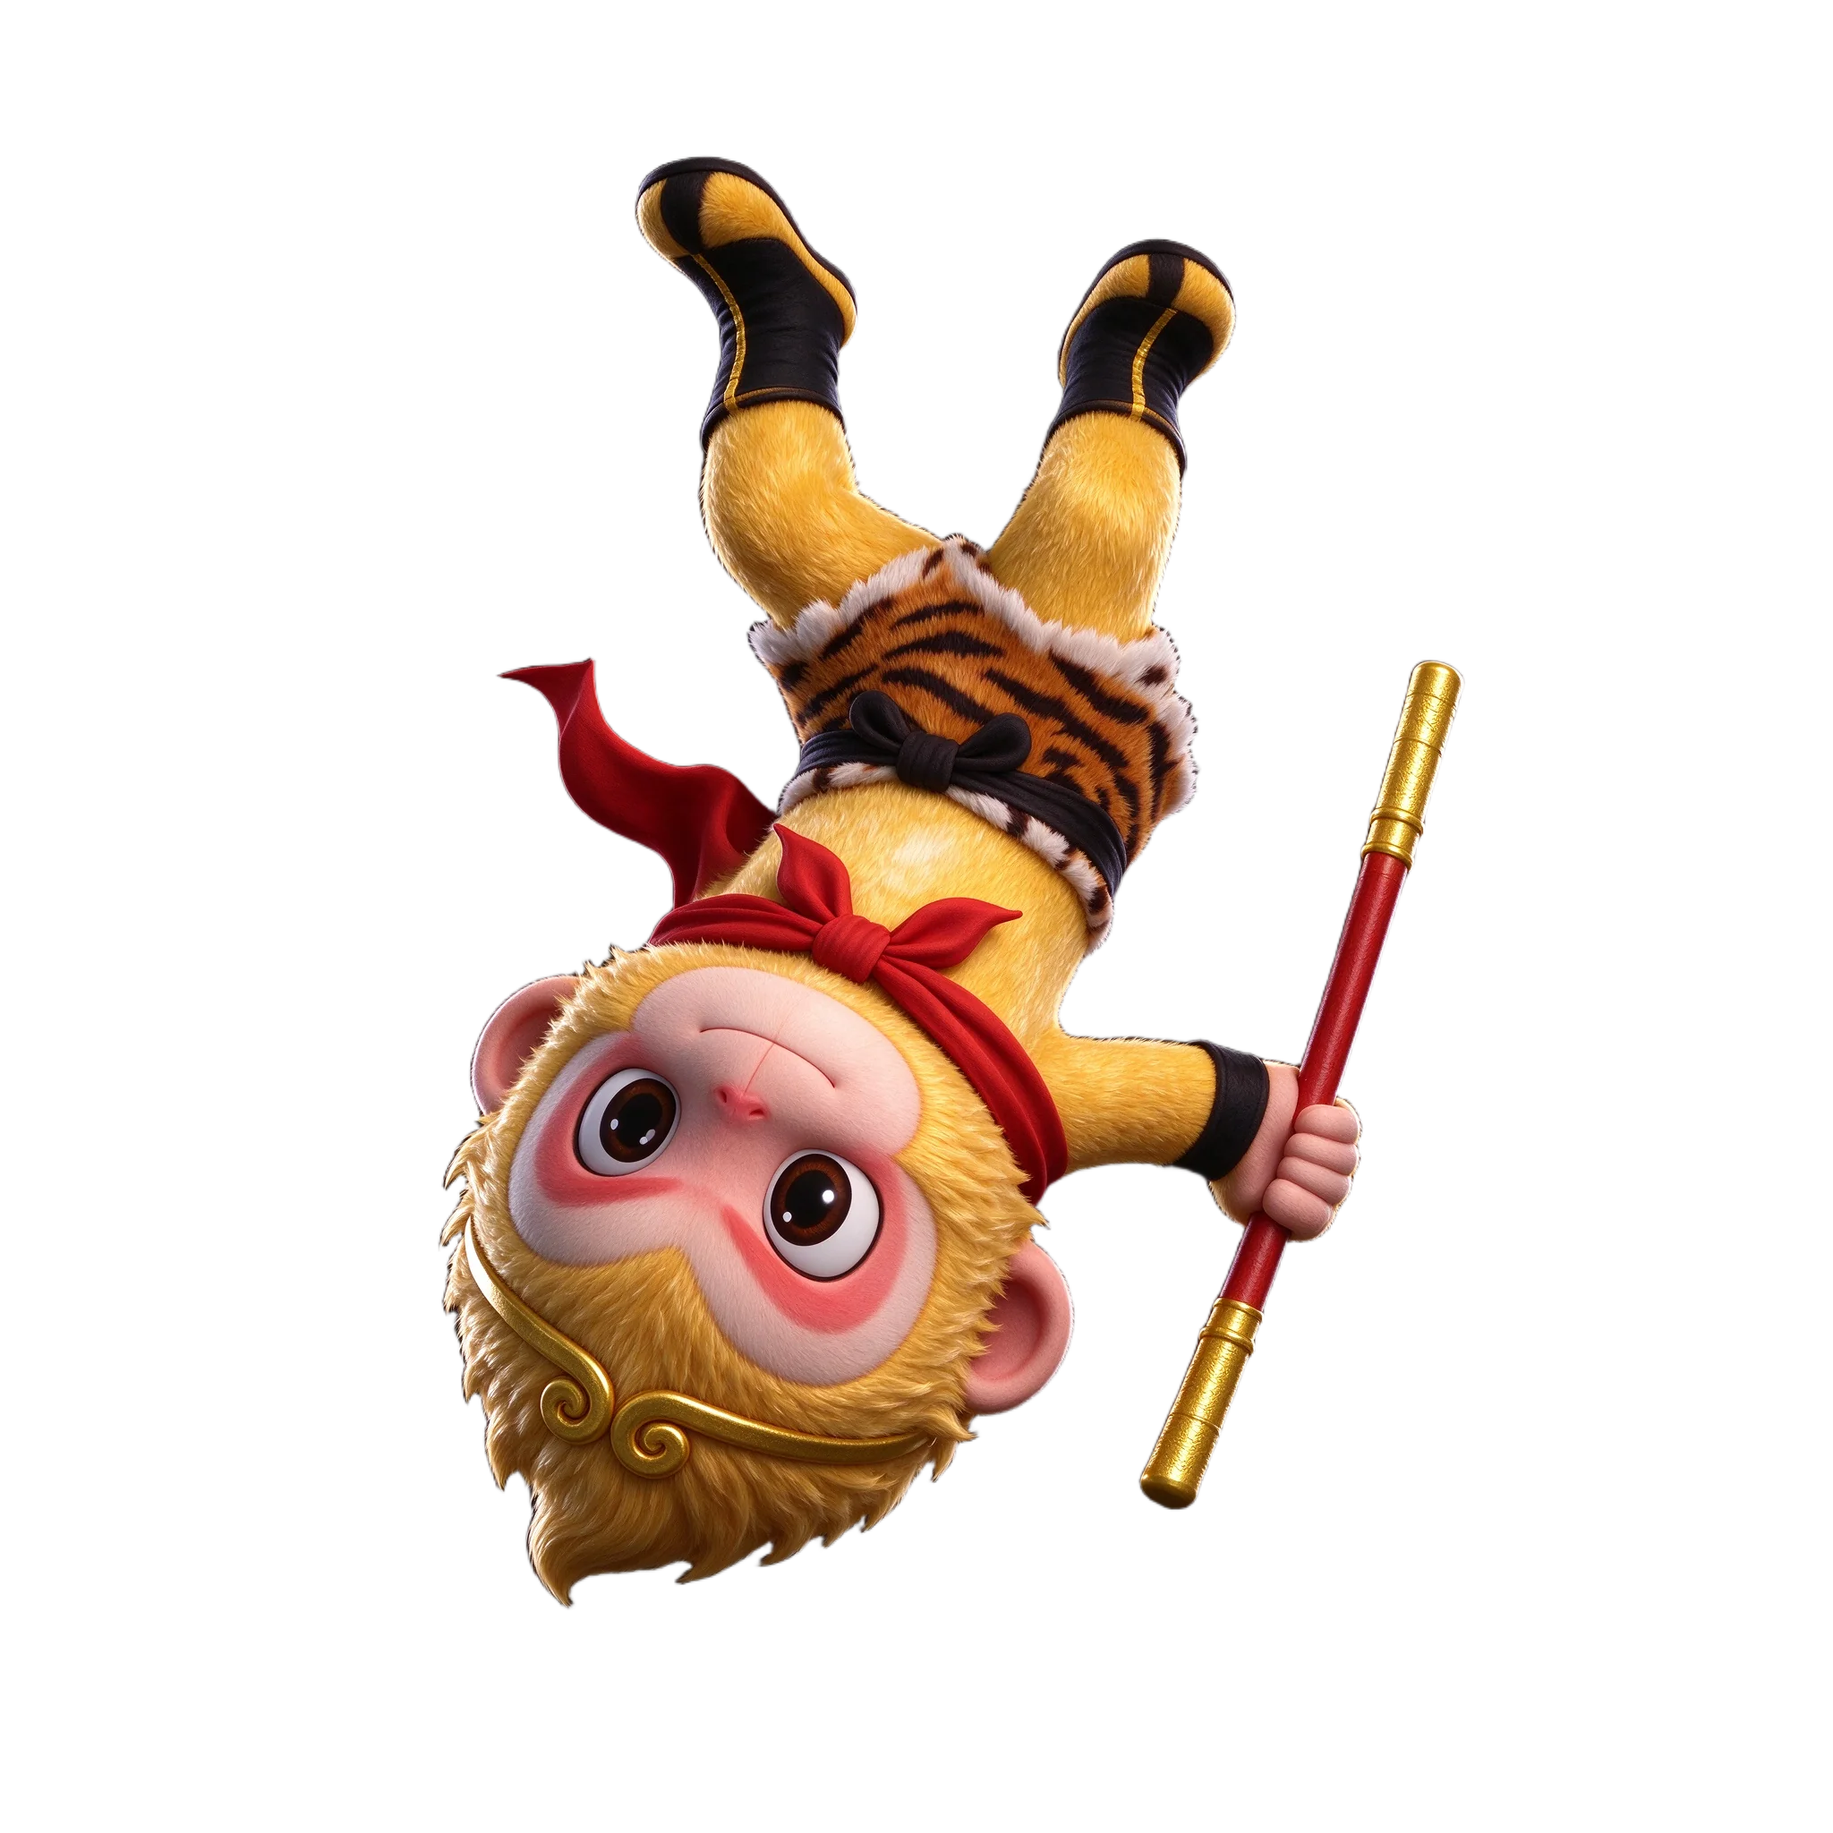
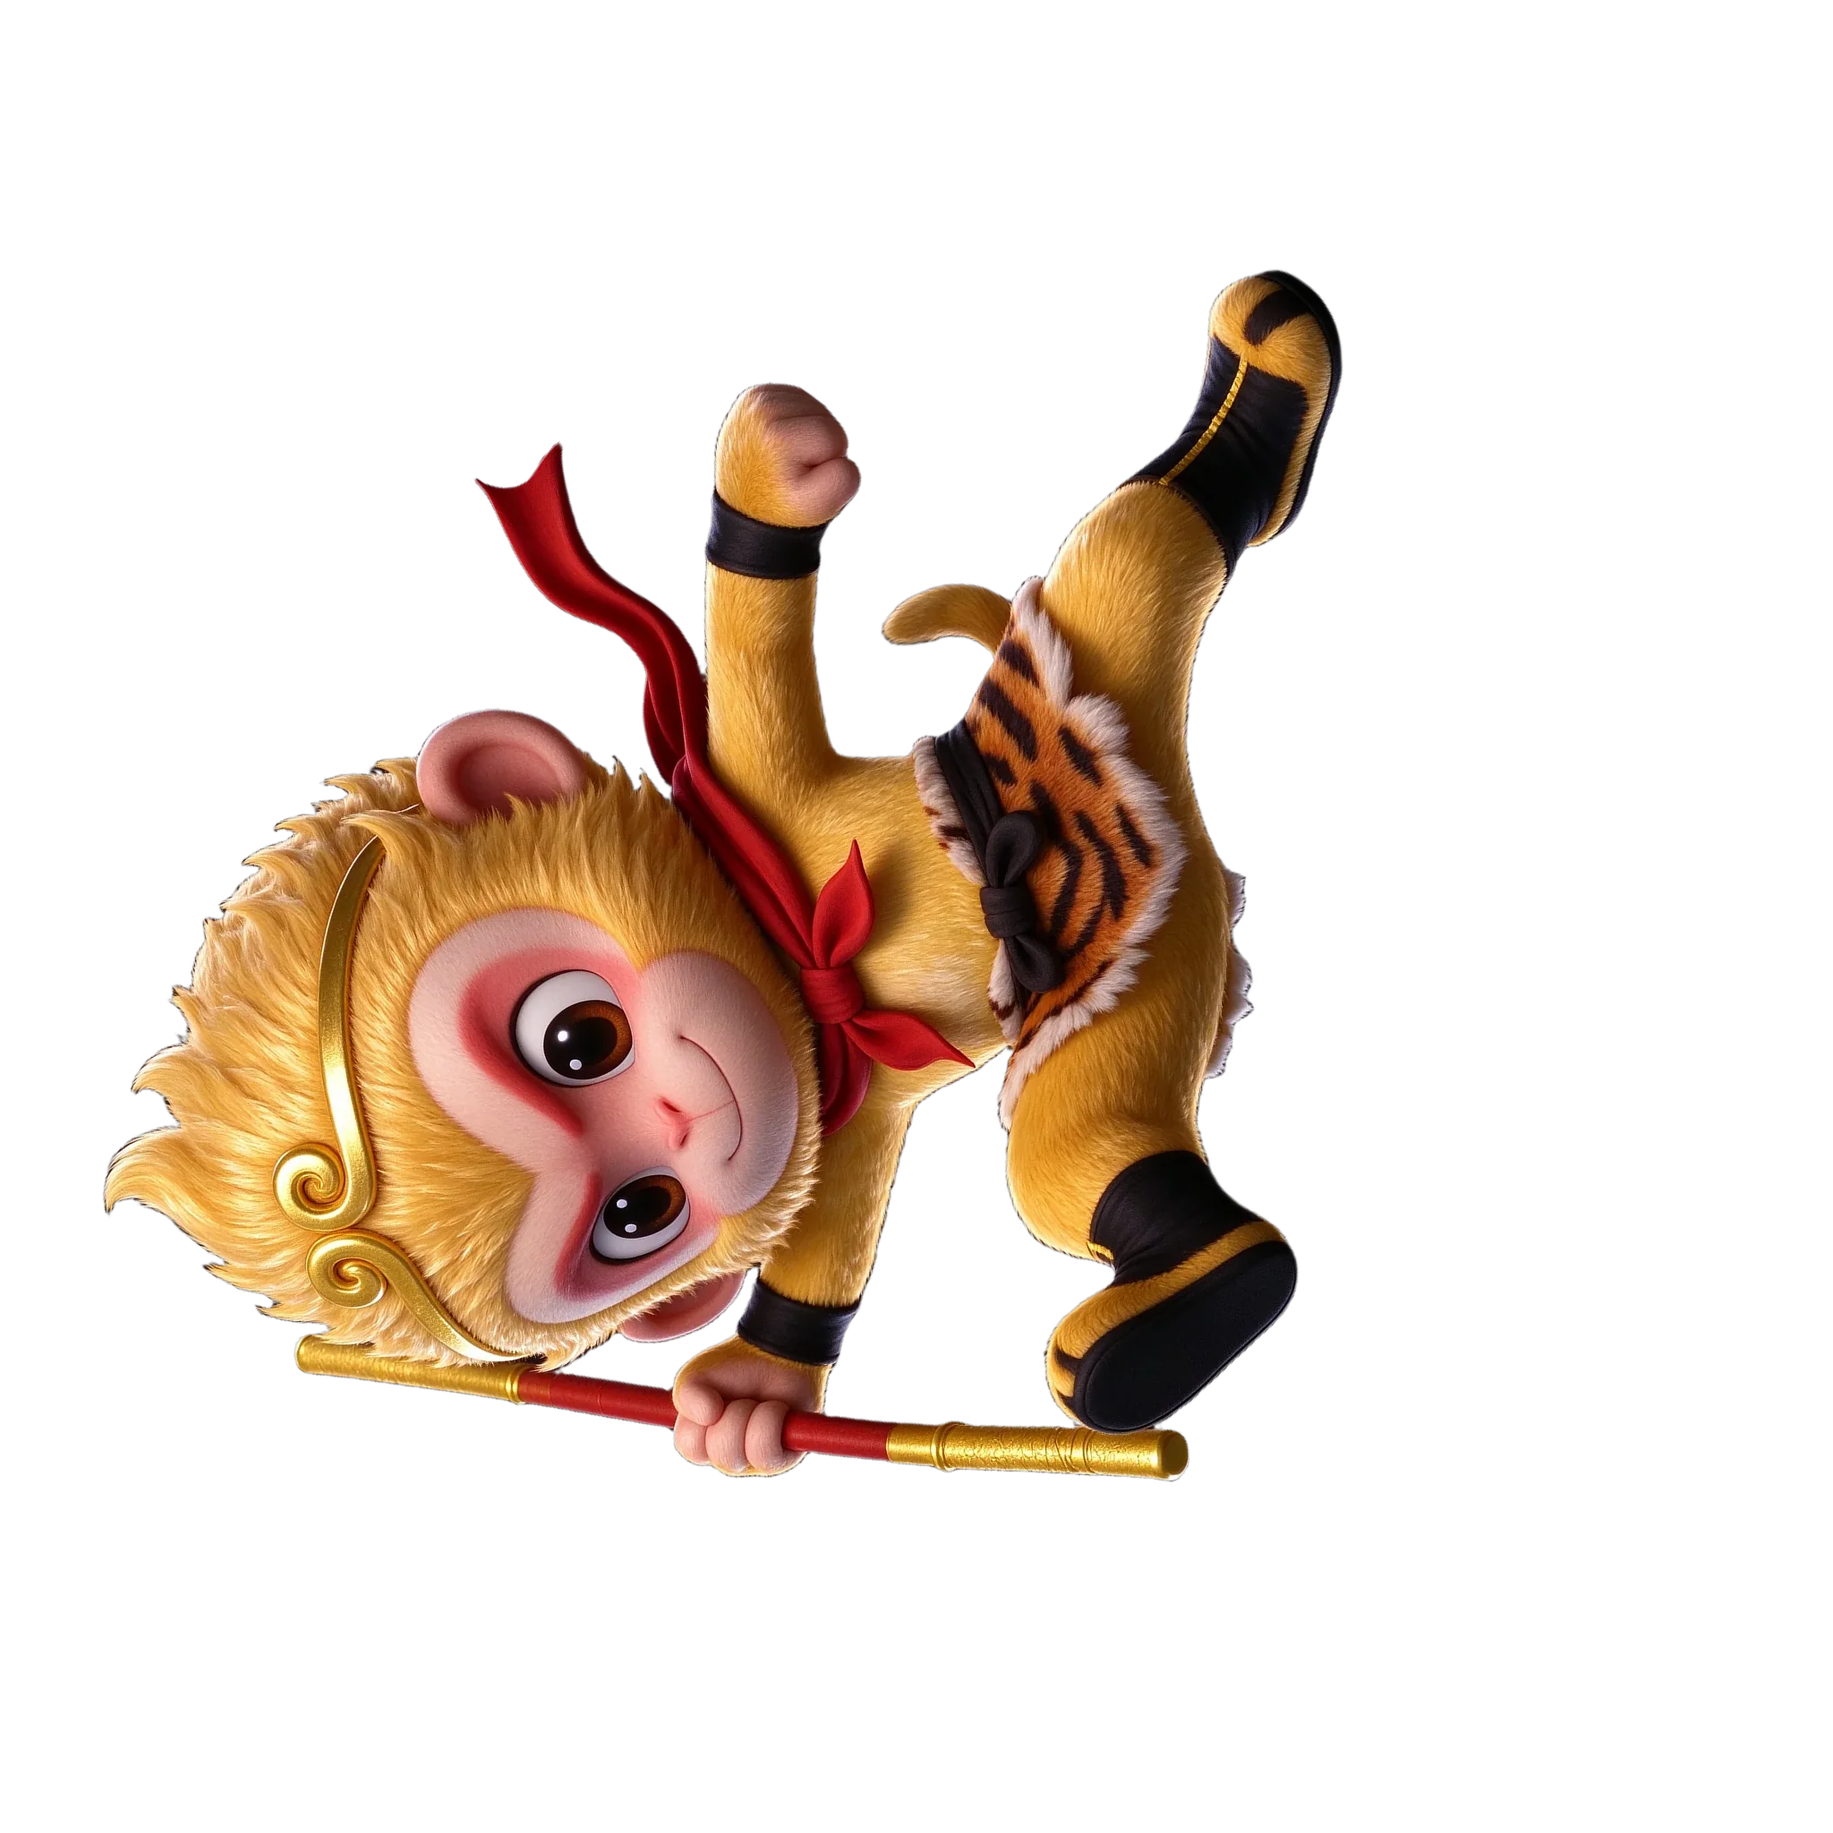
AI助手悟空：真逐帧后空翻动画(11帧JS驱动)+招手衔接，云静止底座，修复CSS动画时钟失效与TDZ崩溃

diff --git a/src/components/quest/WukongAiAssistant.jsx b/src/components/quest/WukongAiAssistant.jsx
@@ -3,20 +3,25 @@ import { callAI } from '../../lib/ai'
 import { toast } from '../../lib/toast'
 
 // 悟空 AI 助手：右下角浮动（孙悟空踩在筋斗云上表演"逐帧动画"动作，可鼠标拖拽移动），点击弹出对标"句乐部"的深色 AI 问答弹窗（弹窗可拖动）
-// 结构：筋斗云是独立底座（只轻微浮动、始终不动位置）；悟空本体在云上按帧序列播放动作（后空翻=6帧逐帧、招手=4帧逐帧，云不参与）
-// 动画编排（16s 循环，动作间用"待机站姿"衔接）：
-//   0-21% 待机(站姿瞭望) → 21-22% 蓄力上抛 → 22-51% 后空翻6帧(翻腾+落地)
-//   52-57% 待机 → 58-87% 招手4帧(左右摇摆) → 88-100% 待机
+// 结构：筋斗云是独立底座（完全静止，只有悟空动）；悟空本体用 JS 帧播放器按序列切换图片（后空翻=11帧、招手=4帧）
+// 时间轴（每 tick=180ms，共 89 tick ≈ 16s 循环）：
+//   0-18 tick 待机站姿 → 19-20 蓄力上抛 → 21-53 后空翻 11 帧（每帧 3 tick，0°→180°倒立→360°）
+//   54-59 待机 → 60-71 招手 4 帧 → 72-88 待机 → 回绕
 // props: statement={russian, chinese} 当前练习句子；modeLabel 模式中文名（如"中译俄"）
-const WUKONG_CLOUD = '/images/ai-assistant/wukong-cloud.webp'    // 筋斗云底座（只浮动）
+const WUKONG_CLOUD = '/images/ai-assistant/wukong-cloud.webp'    // 筋斗云底座（静止）
 const WUKONG_IDLE  = '/images/ai-assistant/wukong-body-1.webp'   // 悟空待机：站立瞭望
-const FLIP_FRAMES = [                                            // 后空翻 6 帧（起跳→60°→120°→倒立→240°→落地）
+const FLIP_FRAMES = [                                            // 后空翻 11 帧（36°步进：起跳0°→36°→72°→108°→144°→180°倒立→216°→252°→288°→324°→360°落地）
   '/images/ai-assistant/flip-1.webp',
   '/images/ai-assistant/flip-2.webp',
   '/images/ai-assistant/flip-3.webp',
   '/images/ai-assistant/flip-4.webp',
   '/images/ai-assistant/flip-5.webp',
   '/images/ai-assistant/flip-6.webp',
+  '/images/ai-assistant/flip-7.webp',
+  '/images/ai-assistant/flip-8.webp',
+  '/images/ai-assistant/flip-9.webp',
+  '/images/ai-assistant/flip-10.webp',
+  '/images/ai-assistant/flip-11.webp',
 ]
 const WAVE_FRAMES = [                                            // 招手 4 帧（抬手→举高→大幅摆→胸前挥）
   '/images/ai-assistant/wave-1.webp',
@@ -25,7 +30,7 @@ const WAVE_FRAMES = [                                            // 招手 4 帧
   '/images/ai-assistant/wave-4.webp',
 ]
 const BTN_SIZE = 92
-const ALL_ASSETS = [WUKONG_CLOUD, WUKONG_IDLE, ...FLIP_FRAMES, ...WAVE_FRAMES]
+const ALL_FRAMES = [WUKONG_IDLE, ...FLIP_FRAMES, ...WAVE_FRAMES]
 
 const PRESET_QUESTIONS = [
   '这道题我应该从哪里入手？请先给一个提示，不要直接给完整答案。',
@@ -40,28 +45,53 @@ export default function WukongAiAssistant({ statement, modeLabel = '练习' }) {
   const [input, setInput] = useState('')
   const [loading, setLoading] = useState(false)
   const scrollRef = useRef(null)
-  const [assetsReady, setAssetsReady] = useState(false)
 
-  // 逐帧素材预加载：全部就绪后再启动帧动画，避免首轮播放闪空白
-  useEffect(() => {
-    let done = 0
-    ALL_ASSETS.forEach((src) => {
-      const im = new Image()
-      im.onload = im.onerror = () => {
-        done += 1
-        if (done >= ALL_ASSETS.length) setAssetsReady(true)
-      }
-      im.src = src
-    })
-  }, [])
-
-  // ---- 孙悟空浮动按钮：可拖拽位置 ----
+  // ---- 孙悟空浮动按钮：可拖拽位置（须在帧播放器之前声明，effect 依赖它） ----
   const [btnPos, setBtnPos] = useState(() => ({
     x: (typeof window !== 'undefined' ? window.innerWidth : 1280) - BTN_SIZE - 16,
     y: (typeof window !== 'undefined' ? window.innerHeight : 720) - BTN_SIZE - 96,
   }))
   const dragRef = useRef({ dragging: false, moved: false, sx: 0, sy: 0, ox: 0, oy: 0 })
   const [btnDragging, setBtnDragging] = useState(false)
+
+  // ---- 帧播放器：JS 驱动（tick 推进帧索引，单图切换） ----
+  const [act, setAct] = useState('idle')      // 'idle' | 'prep' | 'flip' | 'wave'
+  const [fi, setFi] = useState(0)             // 当前动作帧索引
+  const [shown, setShown] = useState(false)   // 当前帧加载完成后才显示（避免闪空白）
+  const tickRef = useRef(0)
+
+  // 预热全部帧到浏览器缓存
+  useEffect(() => {
+    ALL_FRAMES.forEach((src) => { const im = new Image(); im.src = src })
+  }, [])
+
+  // 帧播放主循环：拖拽时暂停，松开继续
+  useEffect(() => {
+    if (btnDragging) return
+    const iv = setInterval(() => {
+      tickRef.current += 1
+      const t = tickRef.current
+      let nextAct = 'idle'
+      let nextFi = 0
+      if (t <= 18) { nextAct = 'idle' }
+      else if (t <= 20) { nextAct = 'prep' }
+      else if (t <= 53) { nextAct = 'flip'; nextFi = Math.min(10, Math.floor((t - 21) / 3)) }
+      else if (t <= 59) { nextAct = 'idle' }
+      else if (t <= 71) { nextAct = 'wave'; nextFi = Math.min(3, Math.floor((t - 60) / 3)) }
+      else if (t >= 88) { nextAct = 'idle'; tickRef.current = 0 }
+      setAct(nextAct)
+      setFi(nextFi)
+    }, 180)
+    return () => clearInterval(iv)
+    // eslint-disable-next-line react-hooks/exhaustive-deps
+  }, [btnDragging])
+
+  // 当前要显示的帧
+  const currentSrc = act === 'flip' ? FLIP_FRAMES[fi] : act === 'wave' ? WAVE_FRAMES[fi] : WUKONG_IDLE
+  const isPrep = act === 'prep'
+
+  // 帧切换时先隐藏，等新帧加载完成再显示
+  useEffect(() => { setShown(false) }, [currentSrc])
 
   // ---- AI 弹窗：可拖拽位置（打开时居中） ----
   const [modalPos, setModalPos] = useState(null)
@@ -205,23 +235,22 @@ export default function WukongAiAssistant({ statement, modeLabel = '练习' }) {
         }}
         className={btnDragging ? "wukong-float-btn dragging" : "wukong-float-btn"}
       >
-        {/* 双层结构：筋斗云底座 + 悟空在云上做逐帧动作 */}
+        {/* 双层结构：筋斗云底座（完全静止）+ 悟空在云上做 JS 帧动画 */}
         <div className="wukong-stage" style={{ position: 'absolute', inset: 0, pointerEvents: 'none' }}>
-          {/* 筋斗云：独立底座，只轻微浮动，不参与任何动作 */}
           <img src={WUKONG_CLOUD} alt="" className="wukong-cloud-img" />
-          {/* 悟空本体：帧序列动画层（待机/后空翻/招手 交替循环） */}
-          <div className={'wukong-body-wrap' + (assetsReady ? ' wu-anim-ready' : '')}>
-            <div className="wu-flip-seq">
-              {FLIP_FRAMES.map((src, i) => (
-                <img key={src} src={src} alt="" className="wu-frame wu-flip" data-idx={i} />
-              ))}
-            </div>
-            <div className="wu-wave-seq">
-              {WAVE_FRAMES.map((src, i) => (
-                <img key={src} src={src} alt="" className="wu-frame wu-wave" data-idx={i} />
-              ))}
-            </div>
-            <img src={WUKONG_IDLE} alt="" className="wu-frame wu-idle" />
+          <div className="wukong-body-wrap">
+            <img
+              key={currentSrc}
+              src={currentSrc}
+              alt=""
+              onLoad={() => setShown(true)}
+              className="wu-single-frame"
+              style={{
+                opacity: shown ? 1 : 0,
+                transform: isPrep ? 'translateY(-7px) scale(1.05)' : 'translateY(0)',
+                transition: 'transform 0.18s ease, opacity 0.12s ease',
+              }}
+            />
           </div>
         </div>
         {/* 状态小光点 */}
@@ -230,84 +259,22 @@ export default function WukongAiAssistant({ statement, modeLabel = '练习' }) {
           background: '#22c55e', border: '2px solid #fff', boxShadow: '0 0 8px rgba(34,197,94,0.8)',
         }} />
         <style>{`
-          /* 筋斗云：只浮动，始终在底部，不参与任何动作 */
-          @keyframes wukong-cloud-float { 0%,100% { transform: translateY(0); } 50% { transform: translateY(-4px); } }
+          /* 筋斗云：独立底座，完全静止（用户要求：云不动，只有悟空动） */
           .wukong-cloud-img {
             position: absolute; left: 0; right: 0; bottom: 0; width: 100%; height: 56%;
-            object-fit: contain; animation: wukong-cloud-float 3.6s ease-in-out infinite;
+            object-fit: contain;
           }
-          /* 悟空层：放大主体，位于云上方；帧全部叠放 */
+          /* 悟空层：放大主体，位于云上方 */
           .wukong-body-wrap {
             position: absolute; left: 0; right: 0; bottom: 24%; width: 100%; height: 62%;
             transform: scale(1.5); transform-origin: bottom center;
           }
-          .wu-frame {
+          .wu-single-frame {
             position: absolute; inset: 0; width: 100%; height: 100%; object-fit: contain;
-            opacity: 0; will-change: opacity, transform;
           }
-          /* 素材未就绪前：只显示待机站姿（静态），帧动画就绪后再启动 */
-          .wu-idle { opacity: 1; }
-
-          /* ============ 帧动画（仅 assetsReady 后启用） ============ */
-          /* 待机站姿：0-20% / 52-57% / 88-100% 三段出现，动作间隙用站姿衔接 */
-          @keyframes wu-idle-anim {
-            0%, 20%  { opacity: 1; transform: translateY(0); }
-            21%      { opacity: 1; transform: translateY(-6px) scale(1.04); } /* 蓄力上抛，衔接后空翻 */
-            22%, 51% { opacity: 0; transform: translateY(-6px) scale(1.04); }
-            52%, 57% { opacity: 1; transform: translateY(0); }
-            58%, 87% { opacity: 0; }
-            88%, 100%{ opacity: 1; transform: translateY(0); }
-          }
-          /* 后空翻 6 帧：22%-51% 硬切逐帧（起跳→60°→120°→倒立→240°→落地） */
-          @keyframes wu-flip-0 { 0%,21% {opacity:0} 22%,26% {opacity:1} 27%,100% {opacity:0} }
-          @keyframes wu-flip-1 { 0%,26% {opacity:0} 27%,31% {opacity:1} 32%,100% {opacity:0} }
-          @keyframes wu-flip-2 { 0%,31% {opacity:0} 32%,36% {opacity:1} 37%,100% {opacity:0} }
-          @keyframes wu-flip-3 { 0%,36% {opacity:0} 37%,41% {opacity:1} 42%,100% {opacity:0} }
-          @keyframes wu-flip-4 { 0%,41% {opacity:0} 42%,46% {opacity:1} 47%,100% {opacity:0} }
-          @keyframes wu-flip-5 { 0%,46% {opacity:0} 47%,51% {opacity:1} 52%,100% {opacity:0} }
-          /* 后空翻容器：整体弹跳（起跳腾空→落地），只有位移，绝不旋转 */
-          @keyframes wu-flip-bounce {
-            0%, 21% { transform: translateY(0); }
-            24%     { transform: translateY(-12px); }
-            45%     { transform: translateY(-6px); }
-            51%, 100% { transform: translateY(0); }
-          }
-          /* 招手 4 帧：58%-87% 硬切逐帧（抬手→举高→大幅摆→胸前挥） */
-          @keyframes wu-wave-0 { 0%,57% {opacity:0} 58%,65% {opacity:1} 66%,100% {opacity:0} }
-          @keyframes wu-wave-1 { 0%,65% {opacity:0} 66%,73% {opacity:1} 74%,100% {opacity:0} }
-          @keyframes wu-wave-2 { 0%,73% {opacity:0} 74%,81% {opacity:1} 82%,100% {opacity:0} }
-          @keyframes wu-wave-3 { 0%,81% {opacity:0} 82%,87% {opacity:1} 88%,100% {opacity:0} }
-          /* 招手容器：轻微左右摇摆，增加生动感（±3° 摇摆，非旋转） */
-          @keyframes wu-wave-sway {
-            0%, 57% { transform: translateY(0) rotate(0deg); }
-            62%     { transform: translateY(-4px) rotate(-3deg); }
-            70%     { transform: translateY(0) rotate(2deg); }
-            78%     { transform: translateY(-2px) rotate(-2deg); }
-            87%, 100% { transform: translateY(0) rotate(0deg); }
-          }
-
-          .wu-anim-ready .wu-idle  { animation: wu-idle-anim 16s ease-in-out infinite; }
-          .wu-anim-ready .wu-flip  { animation: wu-flip-0 16s steps(1,end) infinite; }
-          .wu-anim-ready .wu-flip[data-idx="1"] { animation-name: wu-flip-1; }
-          .wu-anim-ready .wu-flip[data-idx="2"] { animation-name: wu-flip-2; }
-          .wu-anim-ready .wu-flip[data-idx="3"] { animation-name: wu-flip-3; }
-          .wu-anim-ready .wu-flip[data-idx="4"] { animation-name: wu-flip-4; }
-          .wu-anim-ready .wu-flip[data-idx="5"] { animation-name: wu-flip-5; }
-          .wu-anim-ready .wu-wave  { animation: wu-wave-0 16s steps(1,end) infinite; }
-          .wu-anim-ready .wu-wave[data-idx="1"] { animation-name: wu-wave-1; }
-          .wu-anim-ready .wu-wave[data-idx="2"] { animation-name: wu-wave-2; }
-          .wu-anim-ready .wu-wave[data-idx="3"] { animation-name: wu-wave-3; }
-          .wu-anim-ready .wu-flip-seq { animation: wu-flip-bounce 16s ease-in-out infinite; }
-          .wu-anim-ready .wu-wave-seq { animation: wu-wave-sway 16s ease-in-out infinite; }
-
           .wukong-float-btn { transition: transform 0.18s ease; }
           .wukong-float-btn:hover { transform: scale(1.08); }
           .wukong-float-btn.dragging { cursor: grabbing; }
-          /* 拖拽时暂停帧动画（停在当前帧，不跳回第一帧） */
-          .wukong-float-btn.dragging .wukong-cloud-img,
-          .wukong-float-btn.dragging .wu-frame,
-          .wukong-float-btn.dragging .wu-flip-seq,
-          .wukong-float-btn.dragging .wu-wave-seq { animation-play-state: paused; }
         `}</style>
       </button>
 
